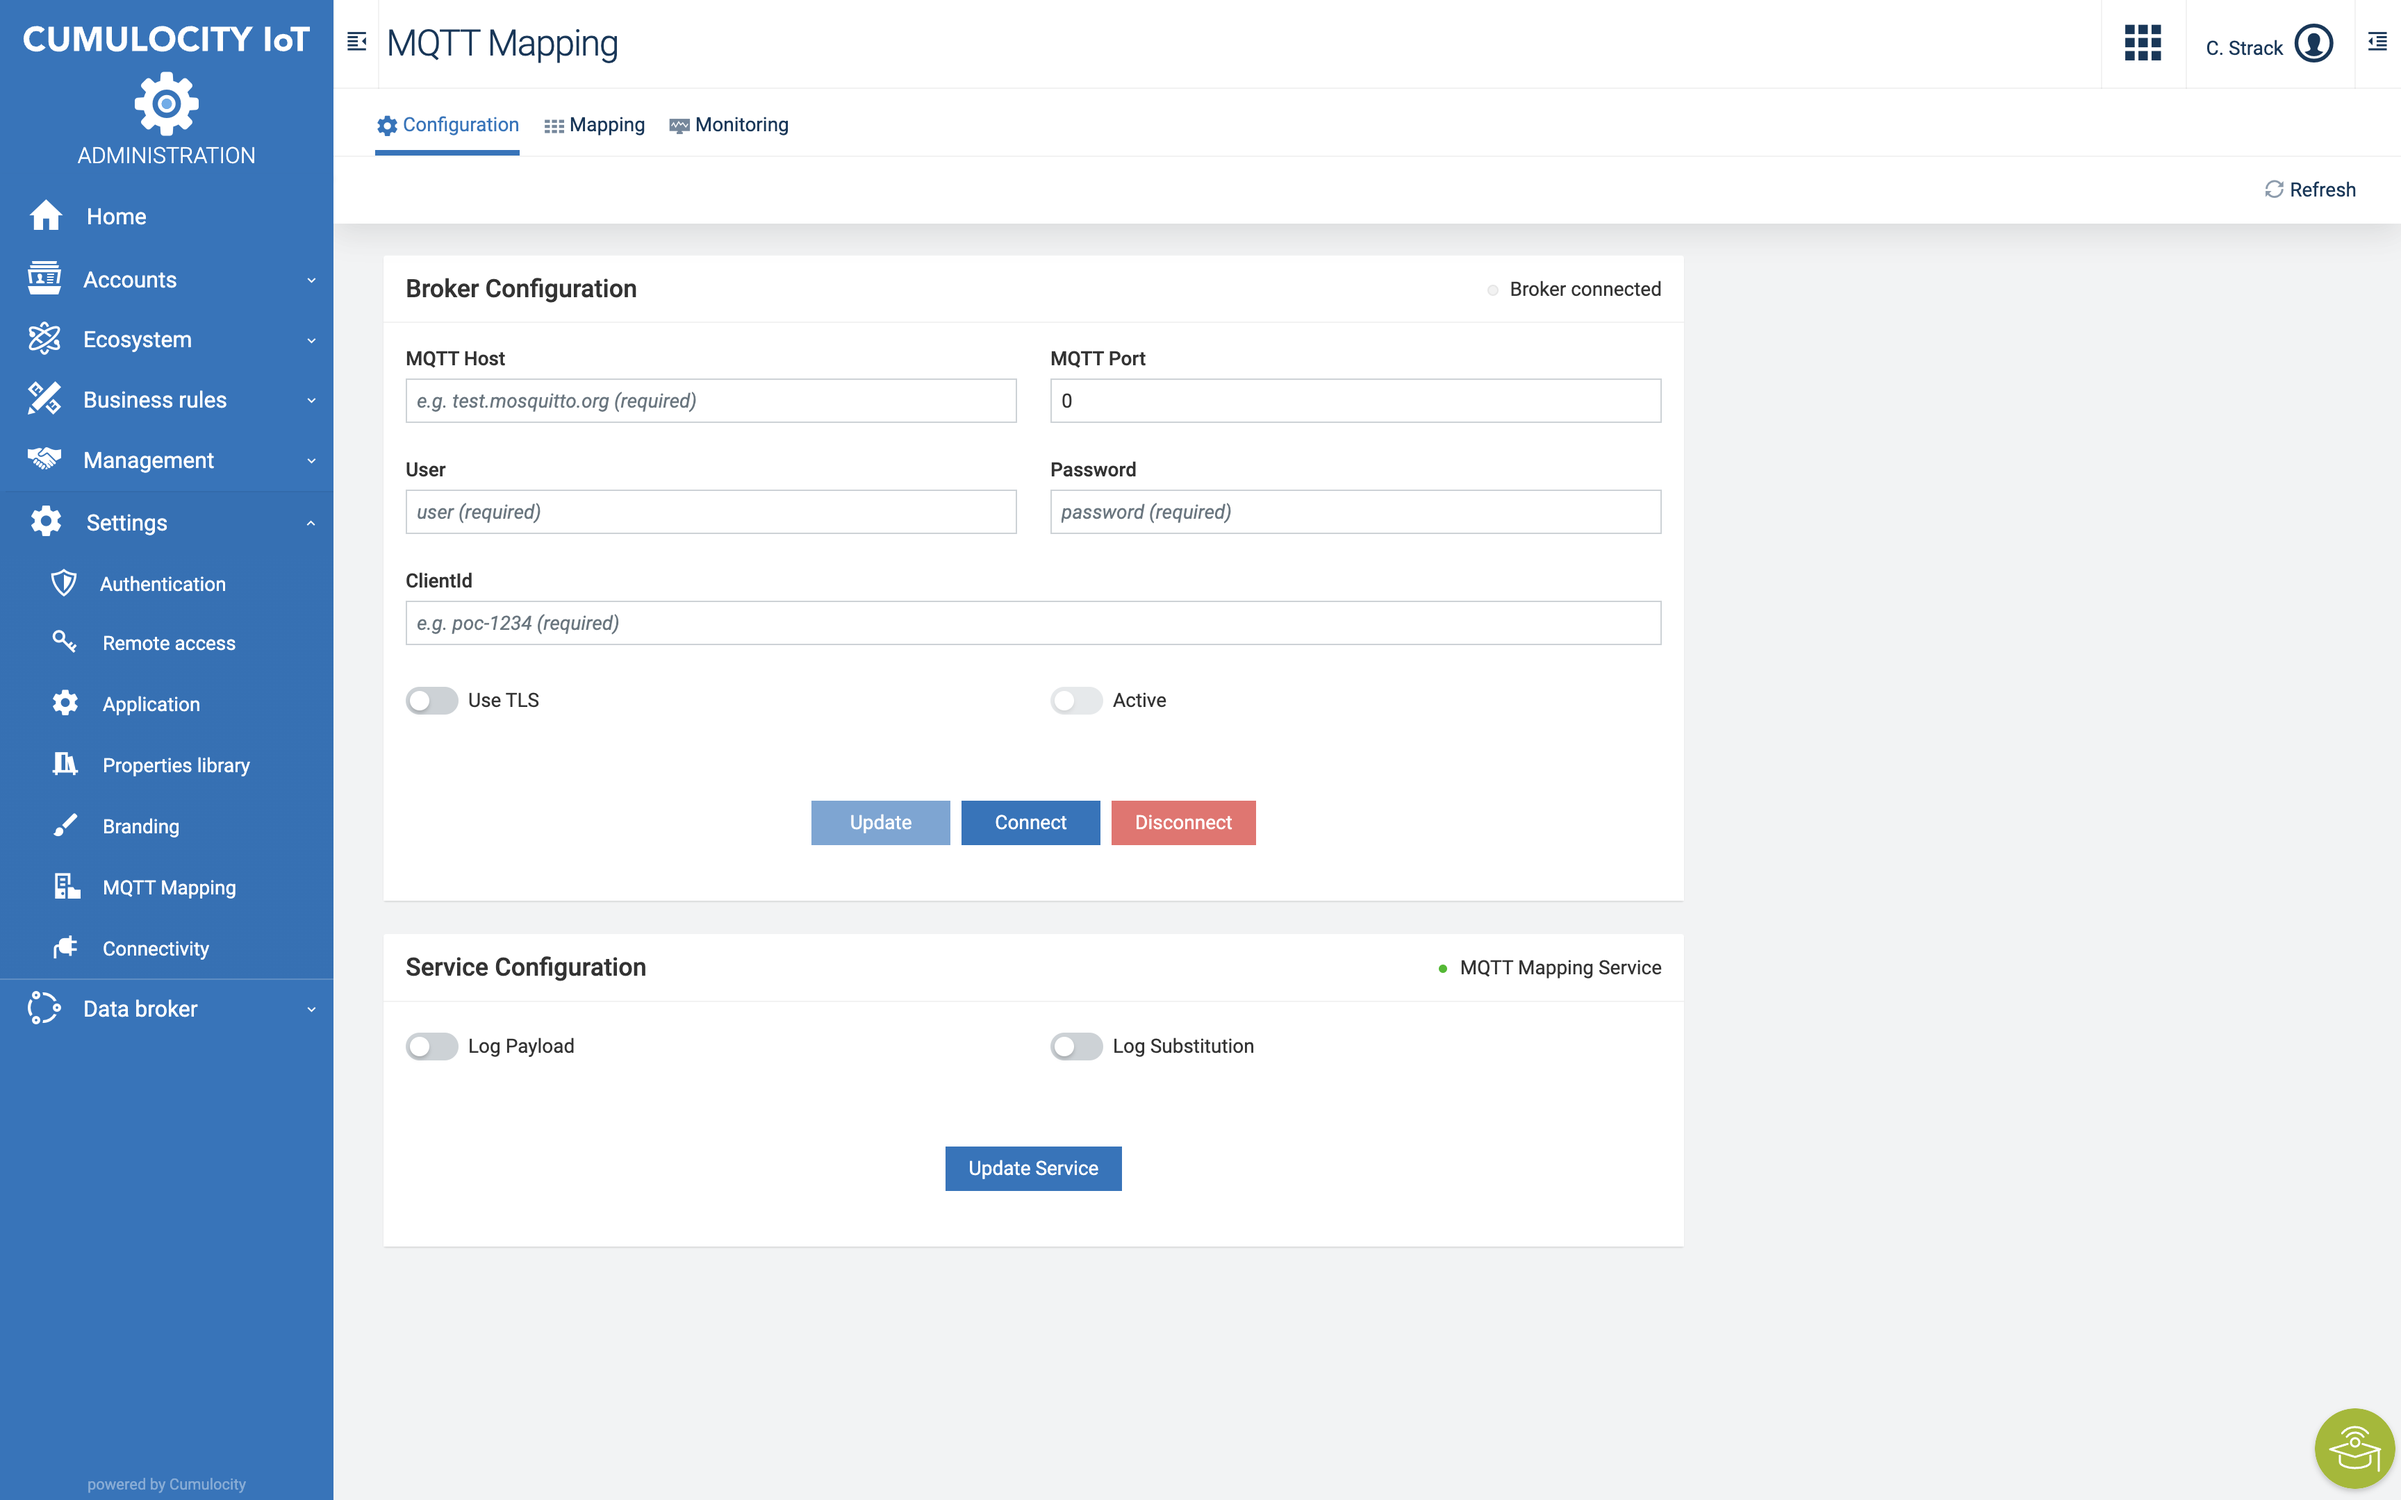
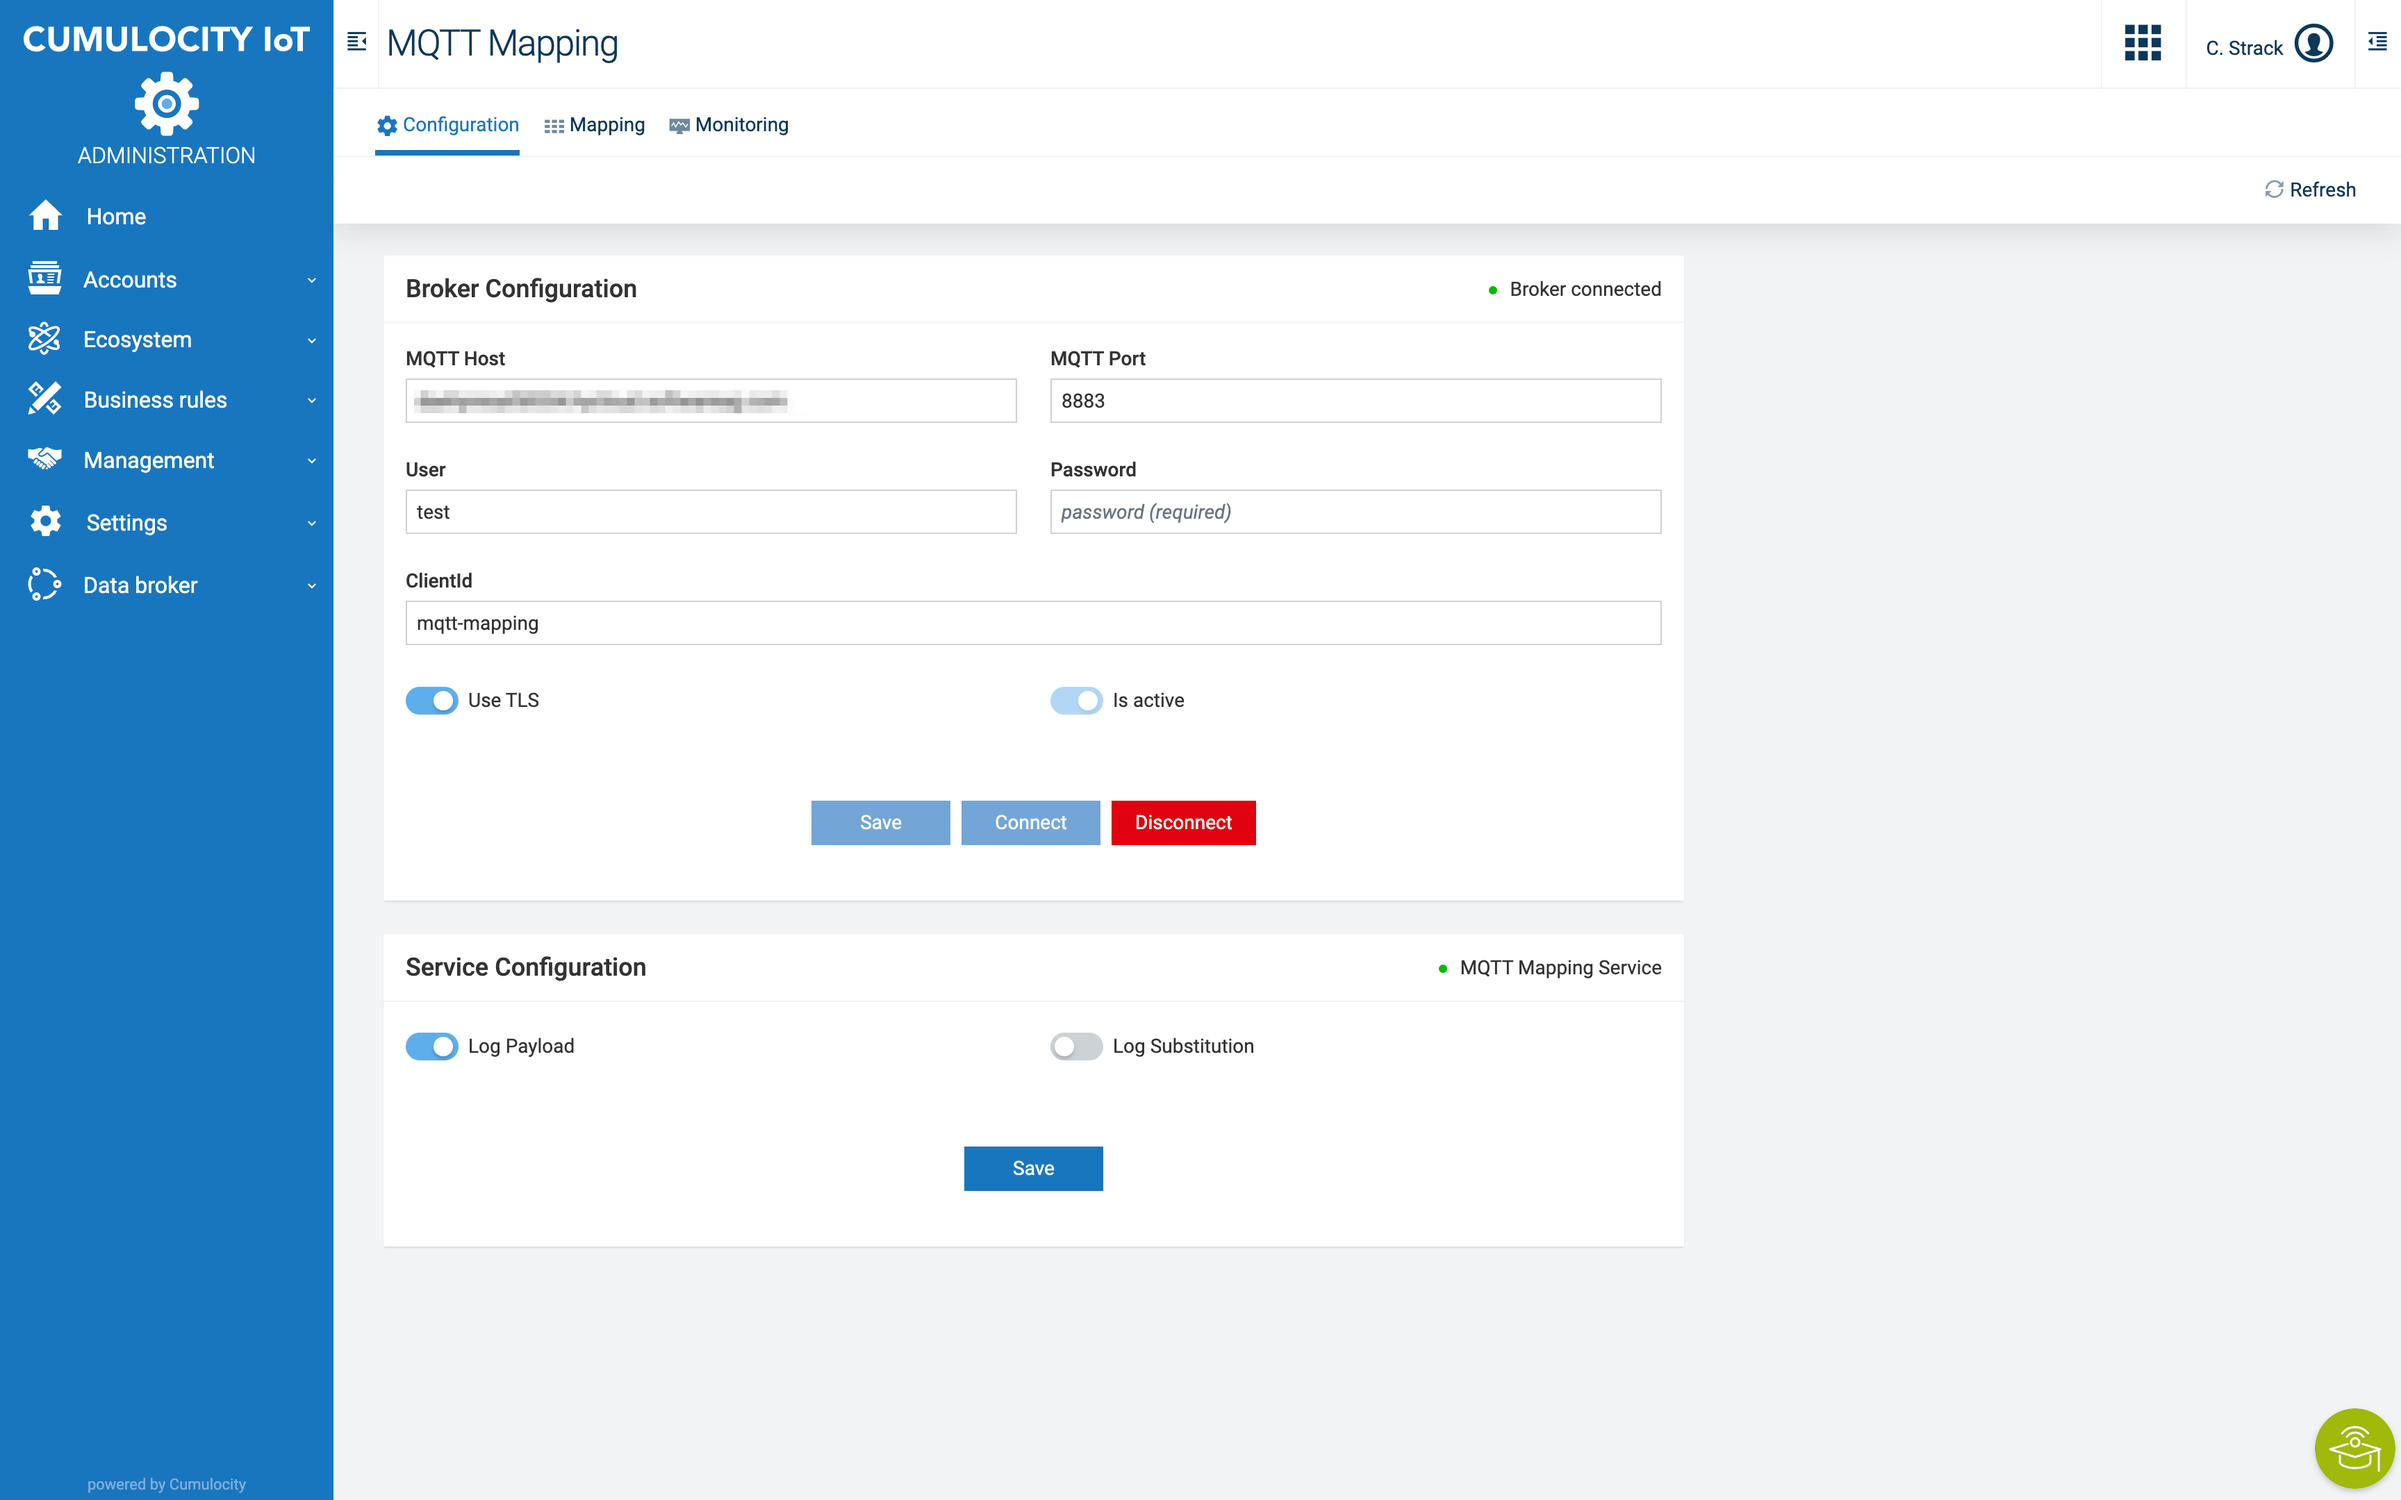
chenged button names

diff --git a/frontend/mqtt-mapping/src/mqtt-configuration/broker-configuration.component.html b/frontend/mqtt-mapping/src/mqtt-configuration/broker-configuration.component.html
@@ -99,11 +99,11 @@
                 </c8y-messages>
               </div>
               <div class="col-lg-6">
-                <label class="c8y-switch" title="{{ 'Active' | translate }}">
+                <label class="c8y-switch" title="{{ 'Is active' | translate }}">
                   <input type="checkbox" formControlName="active" [ngModel]="isBrokerActivated" disabled="true" />
                   <span></span>
                   <span>
-                    {{ 'Active'}}
+                    {{ 'Is active'}}
                   </span>
                 </label>
               </div>
@@ -113,9 +113,9 @@
       </div>
       <div class="card-footer text-center">
         <div class="form-group">
-          <button type="button" name="update" class="btn btn-primary" (click)="clickedUpdateConnectionConfiguration()"
+          <button type="button" name="save" class="btn btn-primary" (click)="clickedSaveConnectionConfiguration()"
             [disabled]="!connectionForm.valid" translate>
-            Update
+            Save
           </button>
           <button type="button" name="connect" class="btn btn-primary" (click)="clickedConnect()"
             [disabled]="isBrokerConnected" translate>
@@ -173,8 +173,8 @@
       </div>
       <div class="card-footer text-center">
         <div class="form-group">
-          <button type="button" name="update" class="btn btn-primary" (click)="clickedUpdateServiceConfiguration()" translate>
-            Update Service
+          <button type="button" name="update" class="btn btn-primary" (click)="clickedSaveServiceConfiguration()" translate>
+            Save
           </button>
         </div>
       </div>

diff --git a/frontend/mqtt-mapping/src/mqtt-configuration/broker-configuration.component.ts b/frontend/mqtt-mapping/src/mqtt-configuration/broker-configuration.component.ts
@@ -114,11 +114,11 @@ export class BokerConfigurationComponent implements OnInit {
     this.showTerminateConnectionModal();
   }
 
-  async clickedUpdateConnectionConfiguration() {
+  async clickedSaveConnectionConfiguration() {
     this.updateConnectionConfiguration();
   }
 
-  async clickedUpdateServiceConfiguration() {
+  async clickedSaveServiceConfiguration() {
     this.updateServiceConfiguration();
   }
 
